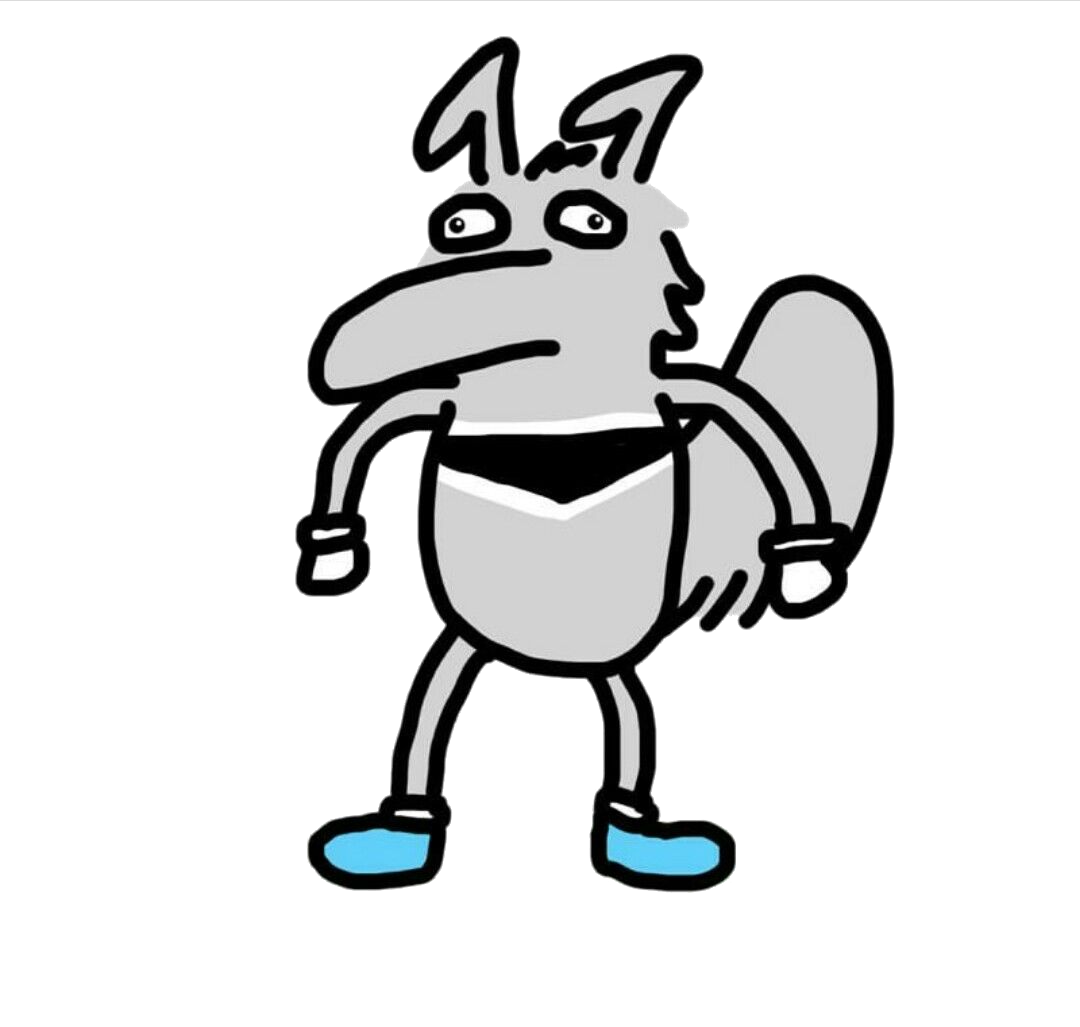
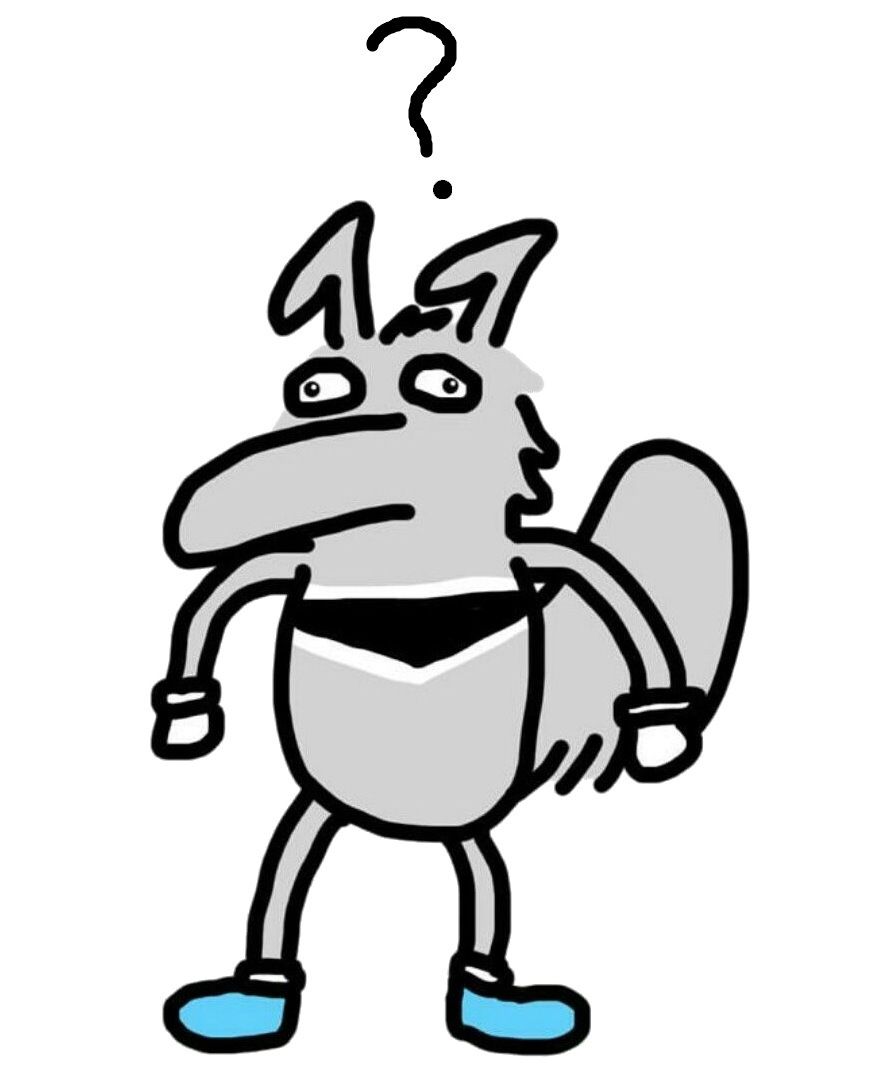
petr is now confused

diff --git a/frontend/src/components/public/SignupForm.vue b/frontend/src/components/public/SignupForm.vue
@@ -287,6 +287,11 @@ async function submitCancelRequest() {
             <Skeleton class="h-4 w-full"/>
           </div>
           <div v-else-if="error" class="text-red-500 text-center">
+            <img
+              src="@/assets/petr.png"
+              class="mx-auto max-h-[150px] mb-2"
+              alt=""
+            />
             {{ error }}
           </div>
           <div v-else-if="signupSuccess" class="text-center text-stone-700">

diff --git a/frontend/src/components/public/WaiverForm.vue b/frontend/src/components/public/WaiverForm.vue
@@ -389,6 +389,11 @@ watch(cancelDialogOpen, (isOpen) => {
             <Skeleton class="h-4 w-full"/>
           </div>
           <div v-else-if="error" class="text-red-500 text-center">
+            <img
+              src="@/assets/petr.png"
+              class="mx-auto max-h-[150px] mb-2"
+              alt=""
+            />
             {{ error }}
           </div>
           <div v-else-if="submitSuccess" class="text-center">

diff --git a/frontend/src/components/public/VoteForm.vue b/frontend/src/components/public/VoteForm.vue
@@ -170,6 +170,11 @@ onMounted(async () => {
           </div>
 
           <div v-else-if="error" class="text-red-500 text-center">
+            <img
+              src="@/assets/petr.png"
+              class="mx-auto max-h-[150px] mb-2"
+              alt=""
+            />
             {{ error }}
           </div>
 
